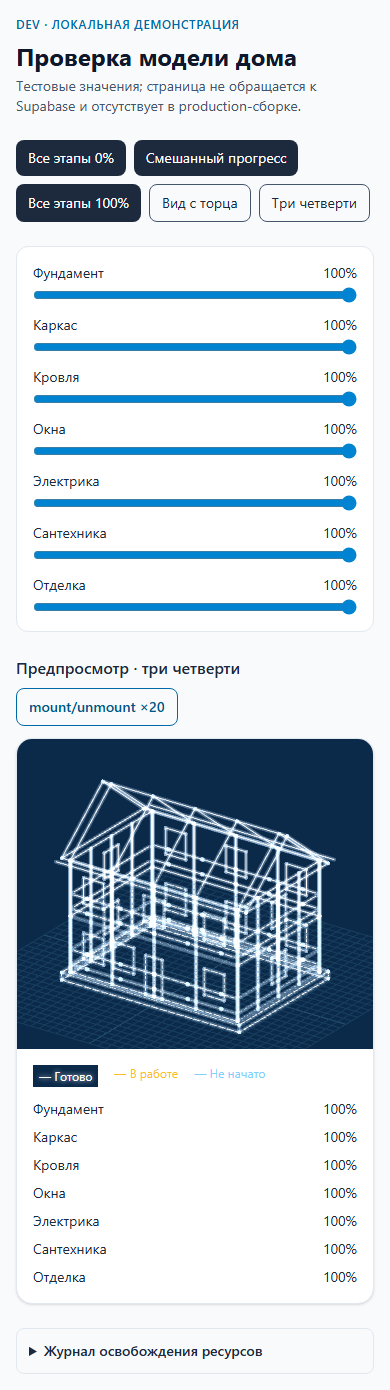
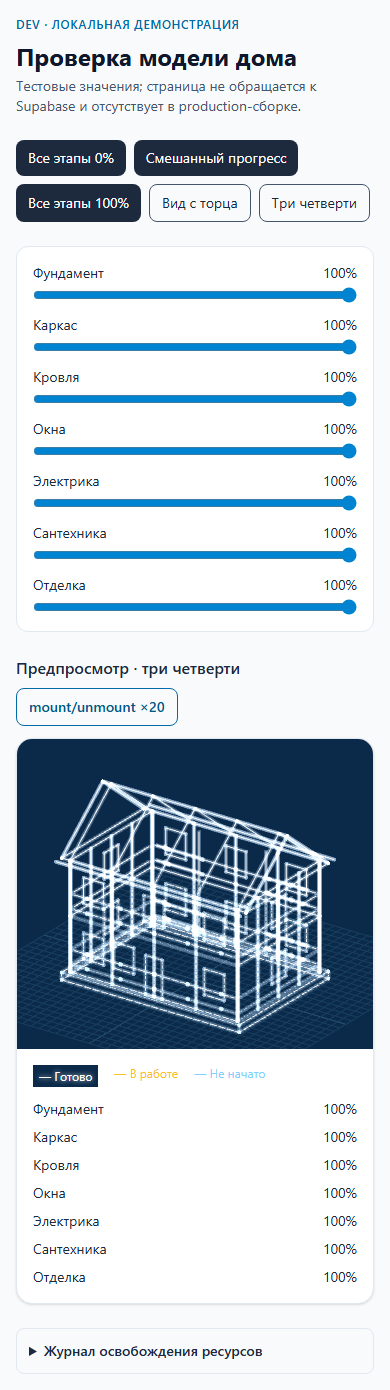
feat: add plumbing stage to house model

diff --git a/src/features/house3d/stagesToParts.test.ts b/src/features/house3d/stagesToParts.test.ts
@@ -2,26 +2,37 @@ import { describe, expect, it } from 'vitest'
 import { stagesToParts } from './stagesToParts'
 import type { HouseStage } from './types'
 
-const stage = (key: string, name: string, percent: number): HouseStage => ({ key, name, percent })
+const names = [
+  '\u0424\u0443\u043d\u0434\u0430\u043c\u0435\u043d\u0442',
+  '\u041a\u0430\u0440\u043a\u0430\u0441',
+  '\u041a\u0440\u043e\u0432\u043b\u044f',
+  '\u041e\u043a\u043d\u0430',
+  '\u042d\u043b\u0435\u043a\u0442\u0440\u0438\u043a\u0430',
+  '\u0421\u0430\u043d\u0442\u0435\u0445\u043d\u0438\u043a\u0430',
+  '\u041e\u0442\u0434\u0435\u043b\u043a\u0430',
+]
+const parts = ['foundation','frame','roof','windows','electric','plumbing','finish']
+const stage = (name: string, percent: number, sortOrder?: number): HouseStage => ({ key: name, name, percent, ...(sortOrder === undefined ? {} : { sortOrder }) })
 
 describe('stagesToParts', () => {
-  it('maps zero, partial, and complete progress to known parts', () => {
-    expect(stagesToParts([stage('a',' ФУНДАМЕНТ ',0),stage('b','Каркас',50),stage('c','Кровля',100)]))
-      .toMatchObject([{part:'foundation',percent:0},{part:'frame',percent:50},{part:'roof',percent:100}])
+  it('maps all seven catalogue names after case, whitespace and ё/е normalization', () => {
+    const mapped = stagesToParts(names.map(name => stage(`  ${name.toLocaleUpperCase('ru').replace(/Е/g, 'Ё')}  `, 100)))
+    expect(mapped.map(item => item.part)).toEqual(parts)
+    expect(mapped.map(item => item.percent)).toEqual([100,100,100,100,100,100,100])
   })
-  it('keeps unknown stages as other and handles empty input', () => {
-    expect(stagesToParts([stage('x','Неизвестный этап',40)])[0].part).toBe('other')
-    expect(stagesToParts([])).toEqual([])
+
+  it('uses the catalogue sort_order fallback when names are empty', () => {
+    expect(stagesToParts(parts.map((_part, index) => stage('', 0, index + 1))).map(item => item.part)).toEqual(parts)
   })
-  it('uses sort order when the stage name is not recognized', () => {
-    expect(stagesToParts([{...stage('x','Неизвестный этап',40),sortOrder:2}])[0].part).toBe('frame')
+
+  it('keeps unknown stages as other and retains their actual label', () => {
+    const [unknown] = stagesToParts([stage('Нестандартный этап', 40)])
+    expect(unknown.part).toBe('other')
+    expect(unknown.name).toBe('Нестандартный этап')
   })
-  it('normalizes the miscellaneous template name and maps its sort order', () => {
-    expect(stagesToParts([stage('misc',' \\u041f\\u0420\\u041e\\u0427\\u0415\\u0415 ',40)])[0].part).toBe('other')
-    expect(stagesToParts([stage('misc2','\\u041f\\u0440\\u043e\\u0447\\u0438\\u0435 \\u0440\\u0430\\u0431\\u043e\\u0442\\u044b',40)])[0].part).toBe('other')
-    expect(stagesToParts([{...stage('misc3','custom name',40),sortOrder:8}])[0].part).toBe('other')
-  })
-  it('clamps out-of-range percentages', () => {
-    expect(stagesToParts([stage('a','Фундамент',-4),stage('b','Каркас',120)]).map(s=>s.percent)).toEqual([0,100])
+
+  it('maps every 100% stage as complete and clamps percentages', () => {
+    expect(stagesToParts(names.map(name => stage(name, 100))).every(item => item.percent === 100)).toBe(true)
+    expect(stagesToParts([stage(names[0], -4), stage(names[1], 120)]).map(item => item.percent)).toEqual([0,100])
   })
 })

diff --git a/src/features/house3d/houseGeometry.ts b/src/features/house3d/houseGeometry.ts
@@ -1,4 +1,4 @@
-export type HousePart = 'foundation' | 'frame' | 'roof' | 'windows' | 'door' | 'electric' | 'finish' | 'handover'
+export type HousePart = 'foundation' | 'frame' | 'roof' | 'windows' | 'door' | 'electric' | 'plumbing' | 'finish' | 'handover'
 export type Point3 = readonly [number, number, number]
 export interface HouseLine { part: HousePart; progressPart?: HousePart; points: Point3[] }
 
@@ -60,11 +60,22 @@ for (const y of [.4,1.2,3.4,4.2]) for (const z of [-3.48,3.48]) for (const x of 
   line('electric',[x-.04,y,z],[x+.04,y,z]); line('electric',[x,y-.04,z],[x,y+.04,z])
 }
 
+// Stacked bathroom/kitchen plumbing: two risers, floor branches and outlet marks.
+for (const x of [-2,2]) line('plumbing',[x,.2,-3.2],[x,5.8,-3.2])
+for (const y of [.6,1.4,3.6,4.4]) {
+  line('plumbing',[-2,y,-3.2],[-4.5,y,-3.2])
+  line('plumbing',[2,y,-3.2],[4.5,y,-3.2])
+  for (const x of [-4,3.5]) {
+    line('plumbing',[x-.1,y,-3.2],[x+.1,y,-3.2])
+    line('plumbing',[x,y-.1,-3.2],[x,y+.1,-3.2])
+  }
+}
+
 // Interior finish panel seams, placed on the room side of the exterior walls.
 for (const z of [-3.46,3.46]) for (const x of [-5,-2.5,0,2.5,5]) line('finish',[x,0,z],[x,6,z])
 for (const x of [-4.96,4.96]) for (const z of [-3.5,-1.75,0,1.75,3.5]) line('finish',[x,0,z],[x,6,z])
 
-// Handover highlights the full outer body and roof contour.
+// The contour geometry is shown only after all seven real stages complete.
 for (const z of [-zRoof,zRoof]) line('handover',[-xRoof,6,z],[xRoof,6,z])
 for (const x of [-xWall,xWall]) { line('handover',[x,0,-zWall],[x,6,-zWall]); line('handover',[x,0,zWall],[x,6,zWall]) }
 for (const x of [-xRoof,xRoof]) { line('handover',[x,6,-zWall],[x,8.8,0]); line('handover',[x,8.8,0],[x,6,zWall]) }

diff --git a/src/features/house3d/House3DDevPage.tsx b/src/features/house3d/House3DDevPage.tsx
@@ -52,7 +52,7 @@ export default function House3DDevPage() {
     <header><p className="text-xs font-semibold uppercase tracking-wider text-sky-700">DEV · Локальная демонстрация</p><h1 className="mt-2 text-2xl font-bold text-slate-900">Проверка модели дома</h1><p className="mt-1 text-sm text-slate-600">Тестовые значения; страница не обращается к Supabase и отсутствует в production-сборке.</p></header>
     <section className="flex flex-wrap gap-2" aria-label="Наборы процентов">
       <button data-testid="preset-zero" className="rounded-lg bg-slate-800 px-3 py-2 text-sm text-white" onClick={() => preset(BASE_STAGES.map(() => 0))}>Все этапы 0%</button>
-      <button data-testid="preset-mixed" className="rounded-lg bg-slate-800 px-3 py-2 text-sm text-white" onClick={() => preset([100,60,30,50,0,0,0])}>Смешанный прогресс</button>
+      <button data-testid="preset-mixed" className="rounded-lg bg-slate-800 px-3 py-2 text-sm text-white" onClick={() => preset([100,60,30,50,0,50,0])}>Смешанный прогресс</button>
       <button data-testid="preset-complete" className="rounded-lg bg-slate-800 px-3 py-2 text-sm text-white" onClick={() => preset(BASE_STAGES.map(() => 100))}>Все этапы 100%</button>
       <button data-testid="view-end" className="rounded-lg border border-slate-600 px-3 py-2 text-sm" onClick={() => setAngle(90)}>Вид с торца</button>
       <button data-testid="view-front" className="rounded-lg border border-slate-600 px-3 py-2 text-sm" onClick={() => setAngle(35)}>Три четверти</button>

diff --git a/src/features/house3d/stagesToParts.ts b/src/features/house3d/stagesToParts.ts
@@ -6,15 +6,13 @@ const byName: Record<string, HousePart> = {
   '\u043a\u0440\u043e\u0432\u043b\u044f': 'roof',
   '\u043e\u043a\u043d\u0430': 'windows',
   '\u044d\u043b\u0435\u043a\u0442\u0440\u0438\u043a\u0430': 'electric',
+  '\u0441\u0430\u043d\u0442\u0435\u0445\u043d\u0438\u043a\u0430': 'plumbing',
   '\u043e\u0442\u0434\u0435\u043b\u043a\u0430': 'finish',
-  '\u0441\u0434\u0430\u0447\u0430': 'handover',
-  '\u043f\u0440\u043e\u0447\u0435\u0435': 'other',
-  '\u043f\u0440\u043e\u0447\u0438\u0435 \u0440\u0430\u0431\u043e\u0442\u044b': 'other',
 }
-const byOrder: Record<number, HousePart> = { 1: 'foundation', 2: 'frame', 3: 'roof', 4: 'windows', 5: 'electric', 7: 'finish', 8: 'other' }
+const byOrder: Record<number, HousePart> = { 1: 'foundation', 2: 'frame', 3: 'roof', 4: 'windows', 5: 'electric', 6: 'plumbing', 7: 'finish' }
 export function stagesToParts(stages: HouseStage[]): MappedStage[] {
   return stages.map(stage => {
-    const normalized = stage.name.trim().toLocaleLowerCase('ru').replace(/\s+/g, ' ')
+    const normalized = stage.name.trim().toLocaleLowerCase('ru').replace(/ё/g, 'е').replace(/\s+/g, ' ')
     const part = byName[normalized] ?? (stage.sortOrder === undefined ? undefined : byOrder[stage.sortOrder]) ?? 'other'
     return { ...stage, part, percent: Number.isFinite(stage.percent) ? Math.max(0, Math.min(100, stage.percent)) : 0 }
   })

diff --git a/src/features/house3d/houseGeometry.test.ts b/src/features/house3d/houseGeometry.test.ts
@@ -41,7 +41,7 @@ describe('house geometry in meters', () => {
   })
 
   it('keeps roof/electrical vertices within the envelope and roof supports at wall-top height', () => {
-    for (const part of ['roof','electric']) for (const [x,y,z] of vertices(part)) {
+    for (const part of ['roof','electric','plumbing']) for (const [x,y,z] of vertices(part)) {
       expect(x).toBeGreaterThanOrEqual(HOUSE_BOUNDS.min[0]); expect(x).toBeLessThanOrEqual(HOUSE_BOUNDS.max[0])
       expect(y).toBeGreaterThanOrEqual(HOUSE_BOUNDS.min[1]); expect(y).toBeLessThanOrEqual(HOUSE_BOUNDS.max[1])
       expect(z).toBeGreaterThanOrEqual(HOUSE_BOUNDS.min[2]); expect(z).toBeLessThanOrEqual(HOUSE_BOUNDS.max[2])
@@ -50,6 +50,8 @@ describe('house geometry in meters', () => {
     expect(roof.some(([x,y,z]) => x === -5 && y === 6 && z === -3.5)).toBe(true)
     expect(roof.some(([x,y,z]) => x === -5 && y === 6 && z === 3.5)).toBe(true)
     expect(vertices('electric').every(([x,y,z]) => Math.abs(x) <= 5 && y >= 0 && y <= 6 && Math.abs(z) <= 3.5)).toBe(true)
+    expect(parts('plumbing').length).toBeGreaterThan(0)
+    expect(vertices('plumbing').every(([x,y,z]) => Math.abs(x) <= 5 && y >= 0 && y <= 6 && Math.abs(z) <= 3.5)).toBe(true)
   })
 
   it('keeps every generated segment in the declared envelope and avoids detached contour posts', () => {

diff --git a/src/features/house3d/HouseModel.tsx b/src/features/house3d/HouseModel.tsx
@@ -27,7 +27,9 @@ export function HouseModel({ stages, height, interactive = true, initialAngle = 
     const mats: THREE.Material[] = []
     const geometries: THREE.BufferGeometry[] = []
     const glowMaterials: LineMaterial[] = []
-    const percent = (part: HousePart) => stages.find(s => s.part === (part === 'door' ? 'windows' : part))?.percent ?? 0
+    const requiredStages: HousePart[] = ['foundation','frame','roof','windows','electric','plumbing','finish']
+    const contourComplete = requiredStages.every(part => stages.some(stage => stage.part === part && stage.percent >= 100))
+    const percent = (part: HousePart) => part === 'handover' ? (contourComplete ? 100 : 0) : stages.find(s => s.part === (part === 'door' ? 'windows' : part))?.percent ?? 0
     const byPart = new Map<HousePart, typeof HOUSE_LINES[number][]>()
     for (const item of HOUSE_LINES) byPart.set(item.part, [...(byPart.get(item.part) ?? []), item])
     for (const [part, entries] of byPart) {

diff --git a/src/features/house3d/types.ts b/src/features/house3d/types.ts
@@ -1,4 +1,4 @@
 export interface HouseStage { key: string; name: string; percent: number; sortOrder?: number }
-export type HousePart = 'foundation' | 'frame' | 'roof' | 'windows' | 'electric' | 'finish' | 'handover' | 'other'
+export type HousePart = 'foundation' | 'frame' | 'roof' | 'windows' | 'electric' | 'plumbing' | 'finish' | 'handover' | 'other'
 export interface MappedStage extends HouseStage { part: HousePart; percent: number }
 export interface HouseRendererSnapshot { geometries: number; textures: number; programs: number }

diff --git a/docs/house3d/README.md b/docs/house3d/README.md
@@ -7,7 +7,7 @@ Captured at 390 × 844 CSS pixels in headless Microsoft Edge Chromium 155 with P
 The wireframe body is 10 × 7 m with 6 m walls, a 10.6 × 0.4 × 7.6 m slab, two 3 m floors, and a gable roof with a 2.8 m ridge rise and 0.5 m eaves. Windows and the centered 1 × 2.1 m door are placed in the wall planes. The 25° camera is fitted to the full envelope and can switch to an end view.
 
 - `all-zero.png` — every stage is 0%. The body, roof, windows, and door remain visible as faint blueprint lines; the silhouette reads as a two-storey gable house.
-- `mixed-roof-30.png` — foundation 100%, frame 60%, roof 30%, windows 50%, remaining stages 0%. Completed details are white, unfinished details are amber, and untouched geometry stays faint blue.
+- `mixed-roof-30.png` — foundation 100%, frame 60%, roof 30%, windows 50%, plumbing 50%, other stages 0%. Completed details are white, unfinished details are amber, and untouched geometry stays faint blue.
 - `all-complete.png` — every stage is 100%. The exterior and gable are clear and bright, with static white additive edge glow. The combined interior frame, electrical routes, and finish seams make the completed wireframe intentionally dense.
 - `end-view.png` — all stages 100%, viewed from the gable end. The triangular roof and centered end-wall window are visible; the roof slopes meet the wall top at y=6.
 
@@ -15,7 +15,7 @@ The new geometry tests check the overall dimensions, window and door bounds and 
 
 The model and legend share `HOUSE_COLORS`: completed is white with additive glow, in-progress is amber, and untouched geometry is pale blue at 0.12 opacity. At partial percentages, completed segments remain white while the rest of that part is amber. Geometry tests also enforce that every generated vertex stays inside the declared model bounds.
 
-The repository contains no `stage_templates` seed or migration, and this checkout has no database connection to query the live catalog. The mapper covers normalized `Прочее` / `Прочие работы` names and the fallback sort order 8; UI rows display the raw stage name supplied by the project. The exact live template name could not be independently verified from this checkout.
+The stage mapper follows the confirmed seven-stage catalogue (sort order 1–7). Unknown stages stay visible by their received name but do not drive any model geometry. Plumbing includes stacked risers, horizontal kitchen/bath branches, and outlet marks on both floors; the visible segment count follows the stage percentage.
 
 ## Renderer lifecycle
 
